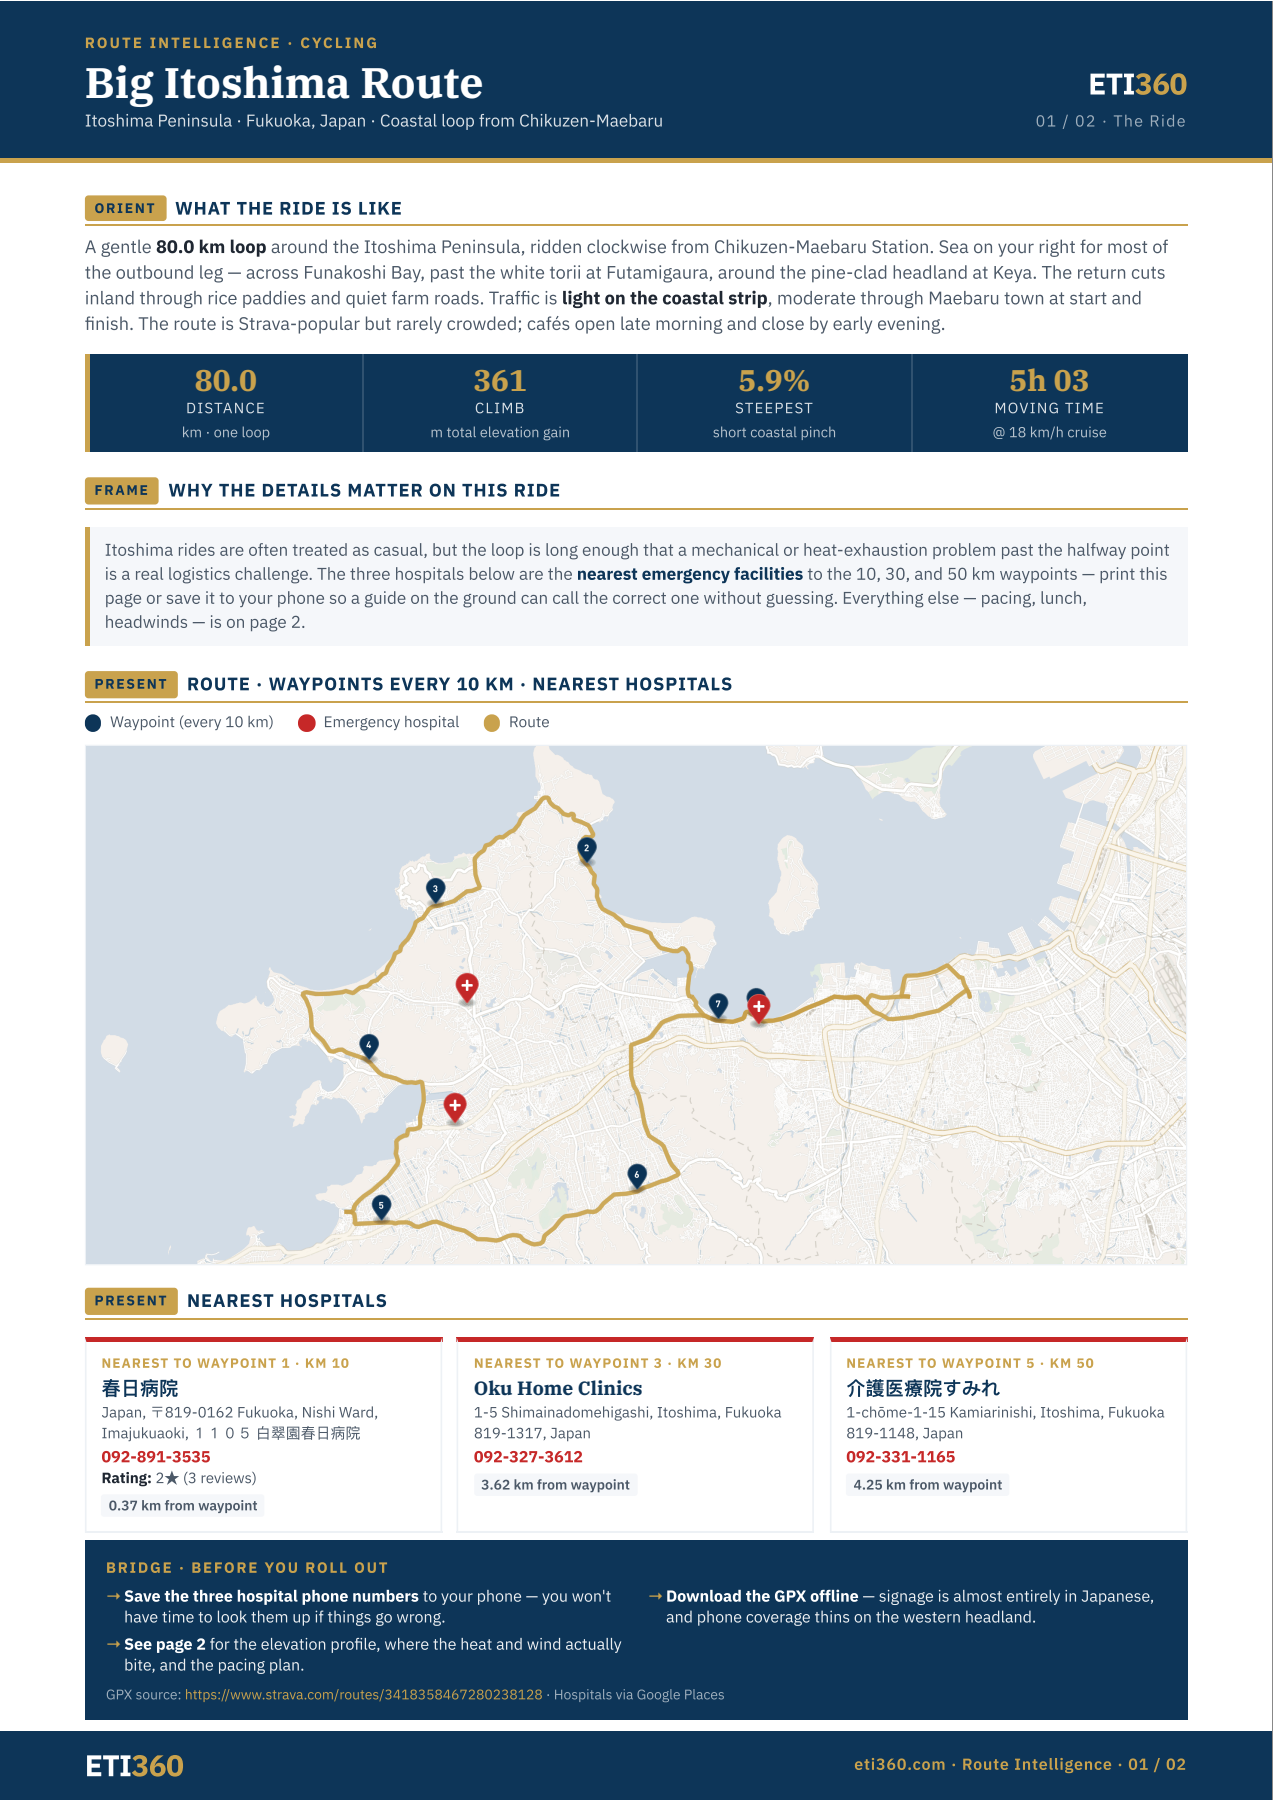
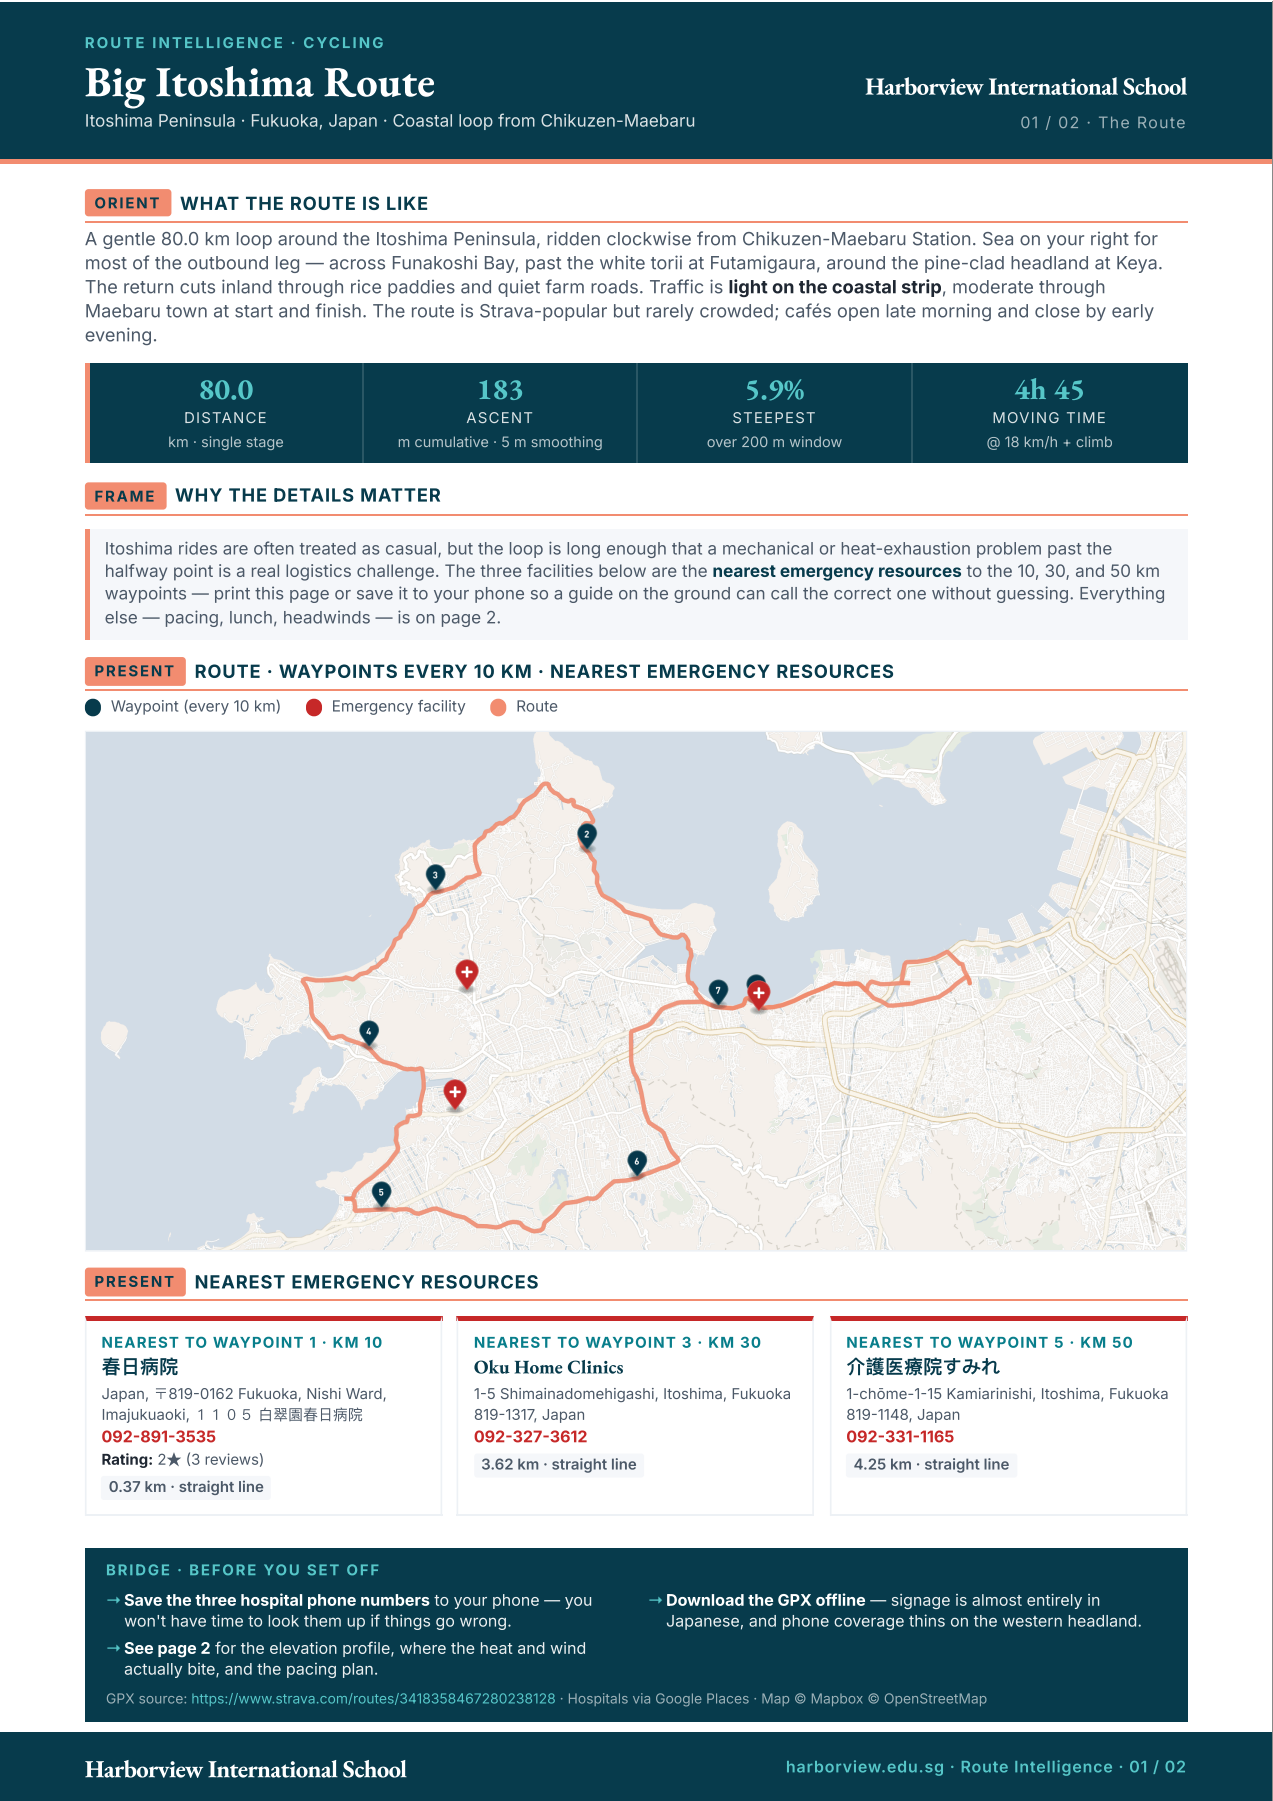
Campaign alignment: questions redirect, locked Itoshima figures, RAMS completion framing, canon question set, copy sweep
Marketing session's Sep 2 findings applied site-side:
- /questions -> /for-schools redirect (the arms' hub link)
- Route Intelligence stats corrected to the locked PDF (183 m cumulative / 4h 45); showcase PNGs re-rendered from the PDF; showcase SW cache bumped to v6
- RAMS rows on home/framework/for-providers recast as structured working documents the school reviews, completes, amends, and approves
- Duty Manager card carries the canonical Arm B question; route and incident questions on canon wording; duty page adds the planned-picture/never-live-tracking line
- One-trip offer restated on /contact and aligned on detail pages (one upcoming trip; standard-doc asks for one itinerary)
- Sweep: normalizes, parent information evening, LiveOps/live-operations alt text, the school's approved trip record, moment-led For Schools card on home, full Harborview disclosure, About recast as consulting firm without self-assessment

diff --git a/apps/web/src/app/for-schools/duty-manager/page.tsx b/apps/web/src/app/for-schools/duty-manager/page.tsx
@@ -15,7 +15,7 @@ const data: SolutionReportData = {
   slug: report.slug,
   eyebrow: report.name,
   question: report.question,
-  lead: "ETI360 carries the approved trip record into one operating view for the school’s own duty manager, with calls, check-ins, messages and updates tracked beside the trip context they relate to.",
+  lead: "ETI360 carries the school’s approved trip record into one operating view for the school’s own duty manager, with calls, check-ins, messages and updates tracked beside the trip context they relate to.",
   answerTitle: "The Duty Manager Dashboard",
   answerBody: "A working school-side view built from the context prepared before departure.",
   heroImage: "/marketing/hero/emergency-docs.jpg",
@@ -63,17 +63,17 @@ const data: SolutionReportData = {
     src: "/showcase/pages/liveops/1.png",
     width: 1273,
     height: 1800,
-    alt: "ETI360 live operations report showing the school duty manager’s trip monitoring record",
+    alt: "ETI360 operating report showing the school duty manager’s trip record",
     caption: "A document view of the same operating discipline: trip context, status and recorded activity.",
   },
   scopeTitle: "For schools monitoring one or many active trips.",
   scopeCopy: "The dashboard supports the school’s nominated duty manager during travel and can be rehearsed before departure through a facilitated simulation using one of the school’s own trips.",
   boundaryTitle: "Scope boundary",
-  boundaryCopy: "ETI360 provides the operating view. It does not monitor trips on the school’s behalf, make escalation decisions or replace emergency services. The school operates the dashboard under its own roles and procedures.",
+  boundaryCopy: "ETI360 provides the operating view. It does not monitor trips on the school’s behalf, make escalation decisions or replace emergency services. The school operates the dashboard under its own roles and procedures, and it shows the planned picture for each group — never live tracking of students.",
   widerTitle: "The operating view depends on the planning record.",
   widerCopy: "Location, route and condition information become more useful when they remain connected to the itinerary, contacts and agreed procedures the duty manager receives.",
   ctaTitle: "See how one of your trips would read in operation.",
-  ctaCopy: "Send an itinerary for a trip already in planning. We will show the context the duty manager would receive and how the working view connects to the documents prepared before departure.",
+  ctaCopy: "Send an itinerary for one upcoming trip. We will show the context the duty manager would receive and how the working view connects to the documents prepared before departure.",
 };
 
 export default function DutyManagerPage() {

diff --git a/apps/web/src/app/about/page.tsx b/apps/web/src/app/about/page.tsx
@@ -3,7 +3,7 @@ import Link from "next/link";
 
 export const metadata: Metadata = {
   title: "About",
-  description: "ETI360 is an advisory firm working in the governance of educational travel.",
+  description: "ETI360 is a risk governance and intelligence consulting firm for educational travel.",
   alternates: { canonical: "/about" },
 };
 
@@ -18,7 +18,7 @@ export default function AboutPage() {
           <p className="label label-light ui">About</p>
           <h1>About ETI360.</h1>
           <p className="subhead">
-            An advisory firm working in the governance of educational travel.
+            A risk governance and intelligence consulting firm for educational travel.
           </p>
         </div>
       </section>
@@ -26,7 +26,7 @@ export default function AboutPage() {
       <section className="article-body">
         <div className="container measure">
           <p className="lead">
-            ETI360 advises international schools and trip providers on structuring the
+            ETI360 works with international schools and trip providers to structure the
             evidence, intelligence, and documentation that trip governance rests on.
           </p>
 
@@ -41,18 +41,16 @@ export default function AboutPage() {
             Within trip governance, the firm structures and supports work the school or provider
             remains accountable for; it does not approve trips, certify providers, guarantee
             outcomes, or substitute its judgment for the governance bodies of the organizations
-            it advises.
+            it works with.
           </p>
 
           <h2>Infrastructure</h2>
           <p>
             The firm has built infrastructure to support its consulting work &mdash; structured
             documentation pipelines, intelligence layers maintaining current information on
-            destinations and providers, scenario testing capabilities, and document production
-            at a scale and quality that contemporary trip governance requires. The infrastructure
-            is leverage for the consulting work, not a product sold separately. Engagements are
-            advisory; the infrastructure is what allows the advisory work to scale across school
-            trip portfolios and provider operations.
+            destinations and providers, scenario testing capabilities, and document production.
+            That infrastructure is what keeps the work consistent across school trip
+            portfolios and provider operations.
           </p>
 
           <h2>Origin</h2>

diff --git a/apps/web/src/app/for-schools/standard-documentation/page.tsx b/apps/web/src/app/for-schools/standard-documentation/page.tsx
@@ -23,7 +23,7 @@ const data: SolutionReportData = {
   problemTitle: "Different trips should not require a different way of reading the evidence.",
   problemCopy: [
     "A city program, ski trip and adventure itinerary contain different information. Leadership can still review each through the same sequence, terminology and document architecture.",
-    "ETI360 normalises the source itinerary into one trip ledger, then produces the relevant documents from that record. The content changes with the trip; the way the school reads it remains familiar.",
+    "ETI360 normalizes the source itinerary into one trip ledger, then produces the relevant documents from that record. The content changes with the trip; the way the school reads it remains familiar.",
   ],
   proofEyebrow: "Three different trips",
   proofTitle: "Tokyo, Hokkaido and Queenstown—one consistent calendar structure.",
@@ -72,8 +72,8 @@ const data: SolutionReportData = {
   boundaryCopy: "ETI360 standardizes the structure and prepares the evidence. It does not make every trip identical, replace the school’s policies, approve the program or substitute its judgment for the school’s review and sign-off.",
   widerTitle: "Standard documentation is the system beneath every report.",
   widerCopy: "Route, location, weather, medical, communications and incident information become more useful when each appears in a familiar form and remains connected to the same trip record.",
-  ctaTitle: "Compare two of your trips in one documentation system.",
-  ctaCopy: "Send two itineraries in the formats you already hold. We will show how different programs can be structured consistently without losing their trip-specific detail.",
+  ctaTitle: "See one of your trips in the standard structure.",
+  ctaCopy: "Send an itinerary in the format you already hold. We will show how the program reads in the consistent structure — and how your next trip would read beside it.",
 };
 
 export default function StandardDocumentationPage() {

diff --git a/apps/web/src/app/for-providers/page.tsx b/apps/web/src/app/for-providers/page.tsx
@@ -63,7 +63,7 @@ const tier2: DocEntry[] = [
     stage: "T2 · The decision record",
     name: "Trip Risk Assessment & RAMS",
     reader: "Risk lead · Trip staff · Provider",
-    desc: "A consistent document prepared for the school's review and decision: hazards, controls, who holds each control, and residual risk in plain language — the due diligence file a school's risk committee can put in front of its board.",
+    desc: "The structured working documents behind the risk assessment and RAMS: hazards, controls, who holds each control, and residual risk in plain language — prepared for the school to review, complete, amend, and approve; the due diligence file its risk committee can put in front of the board.",
     image: {
       src: "/marketing/library/rams-report.png",
       alt: "RAMS report risk register page: named risks with inherent and residual scores, controls, and emergency actions",
@@ -86,8 +86,8 @@ const tier2: DocEntry[] = [
     pdf: "/docs/trip-discovery-map.pdf",
     stage: "T2 · The trip on one sheet",
     name: "Trip Discovery Map",
-    reader: "Coordinator · Parents evening",
-    desc: "Stops, routes, and the shape of each day on one visual sheet — as useful in your proposal as at the school's parents evening.",
+    reader: "Coordinator · Parent information evening",
+    desc: "Stops, routes, and the shape of each day on one visual sheet — as useful in your proposal as at the school's parent information evening.",
     image: {
       src: "/email/spread-map-1.jpg",
       alt: "Trip Discovery Map for Cherry Blossom Tokyo: numbered stops, routes, and photo callouts on one sheet",

diff --git a/apps/web/src/content/solutions.ts b/apps/web/src/content/solutions.ts
@@ -2,7 +2,7 @@ export const reportCatalog = {
   routeIntelligence: {
     slug: "route-intelligence",
     name: "Route Intelligence",
-    question: "Do you know the routes, elevations and distances for every trip you run?",
+    question: "Do you know the route, distance, elevation, and terrain for every routed activity?",
     summary: "Map, terrain, elevation, waypoints and relevant access information in one route record.",
     href: "/for-schools/route-intelligence",
     image: "/showcase/pages/02-3-itoshima-route/1.png",
@@ -47,7 +47,7 @@ export const reportCatalog = {
   dutyManager: {
     slug: "duty-manager",
     name: "Duty Manager Dashboard",
-    question: "Can your duty manager see the same trip context while groups travel?",
+    question: "Can your duty manager see where every traveling group is scheduled to be across all active trips?",
     summary: "Trip context with calls, messages, check-ins and follow-up tracked in one operating view.",
     href: "/for-schools/duty-manager",
     image: "/email/screen-dmd-v3.png",
@@ -56,7 +56,7 @@ export const reportCatalog = {
   incidentReporting: {
     slug: "incident-reporting",
     name: "Incident Reporting",
-    question: "Does your school have one integrated system for incident reporting and documentation?",
+    question: "Can your duty team log an incident, track its status, and preserve the full record in one place?",
     summary: "Context, communications, actions, status and retained documentation in one record.",
     href: "/for-schools/incident-reporting",
     image: "/Claude/Questions/assets/incident-record.png",

diff --git a/apps/web/src/app/for-schools/route-intelligence/page.tsx b/apps/web/src/app/for-schools/route-intelligence/page.tsx
@@ -30,9 +30,9 @@ const data: SolutionReportData = {
   proofCopy: "The route begins and ends at Chikuzen-Maebaru Station in Fukuoka. The page combines the mapped loop, 10 km waypoints, nearest verified facilities and the four figures that frame the ride.",
   stats: [
     ["80.0 km", "Distance", "One coastal loop"],
-    ["361 m", "Total climb", "Distributed across the route"],
+    ["183 m", "Cumulative climb", "Measured with 5 m smoothing"],
     ["5.9%", "Steepest", "Short coastal section"],
-    ["5 h 03", "Moving time", "At an 18 km/h cruise"],
+    ["4 h 45", "Moving time", "At 18 km/h plus climb allowance"],
   ],
   primaryArtifact: {
     src: "/showcase/pages/02-3-itoshima-route/1.png",
@@ -73,7 +73,7 @@ const data: SolutionReportData = {
   widerTitle: "The route is one part of a complete trip file.",
   widerCopy: "ETI360 also structures timings, locations, accommodation, facilities, parent information and the operating view used while groups travel.",
   ctaTitle: "See one of your own trips this way.",
-  ctaCopy: "Send an itinerary for a trip already in planning. We will show you what the structured trip file would contain and whether Route Intelligence applies.",
+  ctaCopy: "Send an itinerary for one upcoming trip. We will show you what the structured trip file would contain and whether Route Intelligence applies.",
 };
 
 export default function RouteIntelligenceProblemSolution() {

diff --git a/apps/web/src/app/page.tsx b/apps/web/src/app/page.tsx
@@ -108,7 +108,7 @@ export default function HomePage() {
           <p className="section-lead">
             Real rendered pages from our reference school, Harborview
             International School &mdash; fictitious by design, so every page can
-            be shown in full. The documents open as complete PDFs; the live
+            be shown in full &mdash; no real school&rsquo;s documents are ever shown. The documents open as complete PDFs; the live
             operations screens are shown as working views.
           </p>
         </div>
@@ -138,9 +138,9 @@ export default function HomePage() {
               <p className="label ui">For schools</p>
               <h3>Governance and oversight.</h3>
               <p>
-                When a governing board, safeguarding lead, or insurer reviews a
-                trip, they ask for specific evidence: organizational standing, a
-                trip-specific risk assessment, and a clear sign-off record.
+                The sign-off meeting, the family questions, and the days the group
+                is away all draw on the same evidence: organizational standing,
+                a trip-specific risk assessment, and a clear record of decisions.
                 ETI360 structures that evidence into a governance record built
                 the same way, every time &mdash; prepared for the school&rsquo;s
                 review and decision.

diff --git a/apps/web/src/components/docLibrary.ts b/apps/web/src/components/docLibrary.ts
@@ -50,7 +50,7 @@ export const schoolTier2: DocEntry[] = [
     stage: "T2 · The decision record",
     name: "Trip Risk Assessment & RAMS",
     reader: "Risk lead · Trip staff · Provider",
-    desc: "A consistent document prepared for the school's review and decision: hazards, controls, who holds each control, and residual risk in plain language — grouped the way the trip runs, one assessment per activity group.",
+    desc: "The structured working documents behind the school's risk assessment and RAMS: hazards, controls, who holds each control, and residual risk in plain language — grouped the way the trip runs, one report per activity group, prepared for the school to review, complete, amend, and approve.",
     image: {
       src: "/marketing/library/rams-report.png",
       alt: "RAMS report risk register page: named risks with inherent and residual scores, controls, and emergency actions",

diff --git a/apps/web/src/app/for-schools/medical-access/page.tsx b/apps/web/src/app/for-schools/medical-access/page.tsx
@@ -73,7 +73,7 @@ const data: SolutionReportData = {
   widerTitle: "Medical access belongs beside the route and the itinerary.",
   widerCopy: "The Location Timeline shows when the group is scheduled to be somewhere. Route Intelligence shows how it moves. The Medical Access Record adds the relevant facility context to those same places.",
   ctaTitle: "See medical access connected to one of your itineraries.",
-  ctaCopy: "Send a trip already in planning. We will show how its accommodations, activities and routes could carry consistent facility references in the trip file.",
+  ctaCopy: "Send an itinerary for one upcoming trip. We will show how its accommodations, activities and routes could carry consistent facility references in the trip file.",
 };
 
 export default function MedicalAccessPage() {

diff --git a/apps/web/src/app/for-schools/weather-brief/page.tsx b/apps/web/src/app/for-schools/weather-brief/page.tsx
@@ -71,7 +71,7 @@ const data: SolutionReportData = {
   widerTitle: "Conditions become more useful when connected to the day.",
   widerCopy: "The Weather Brief sits beside the Location Timeline and Route Intelligence, allowing likely conditions to be considered against the places, timings and activities in the same trip file.",
   ctaTitle: "See the climate context for one upcoming trip.",
-  ctaCopy: "Send the destination and dates for a trip already in planning. We will show how the historical conditions would be presented alongside the rest of the trip record.",
+  ctaCopy: "Send the destination and dates for one upcoming trip. We will show how the historical conditions would be presented alongside the rest of the trip record.",
 };
 
 export default function WeatherBriefPage() {

diff --git a/apps/web/src/app/for-schools/location-timeline/page.tsx b/apps/web/src/app/for-schools/location-timeline/page.tsx
@@ -73,7 +73,7 @@ const data: SolutionReportData = {
   widerTitle: "Location is one part of a complete trip file.",
   widerCopy: "Routes, historical conditions and the duty manager’s operating view use the same trip context, so the school is not reconciling different versions of the journey.",
   ctaTitle: "See your itinerary as one continuous record.",
-  ctaCopy: "Send an itinerary for a trip already in planning. We will show how its activities, movements, breaks and overnight stays would read in a structured trip file.",
+  ctaCopy: "Send an itinerary for one upcoming trip. We will show how its activities, movements, breaks and overnight stays would read in a structured trip file.",
 };
 
 export default function LocationTimelinePage() {

diff --git a/apps/web/src/app/for-schools/incident-reporting/page.tsx b/apps/web/src/app/for-schools/incident-reporting/page.tsx
@@ -63,7 +63,7 @@ const data: SolutionReportData = {
     src: "/showcase/pages/liveops/3.png",
     width: 1273,
     height: 1800,
-    alt: "ETI360 LiveOps incident card showing context, communications, actions and timeline as four connected layers",
+    alt: "ETI360 incident card showing context, communications, actions and timeline as four connected layers",
     caption: "The incident card architecture: context, communications, actions and timeline in one school-operated system.",
   },
   scopeTitle: "For schools that want one record from report through review.",
